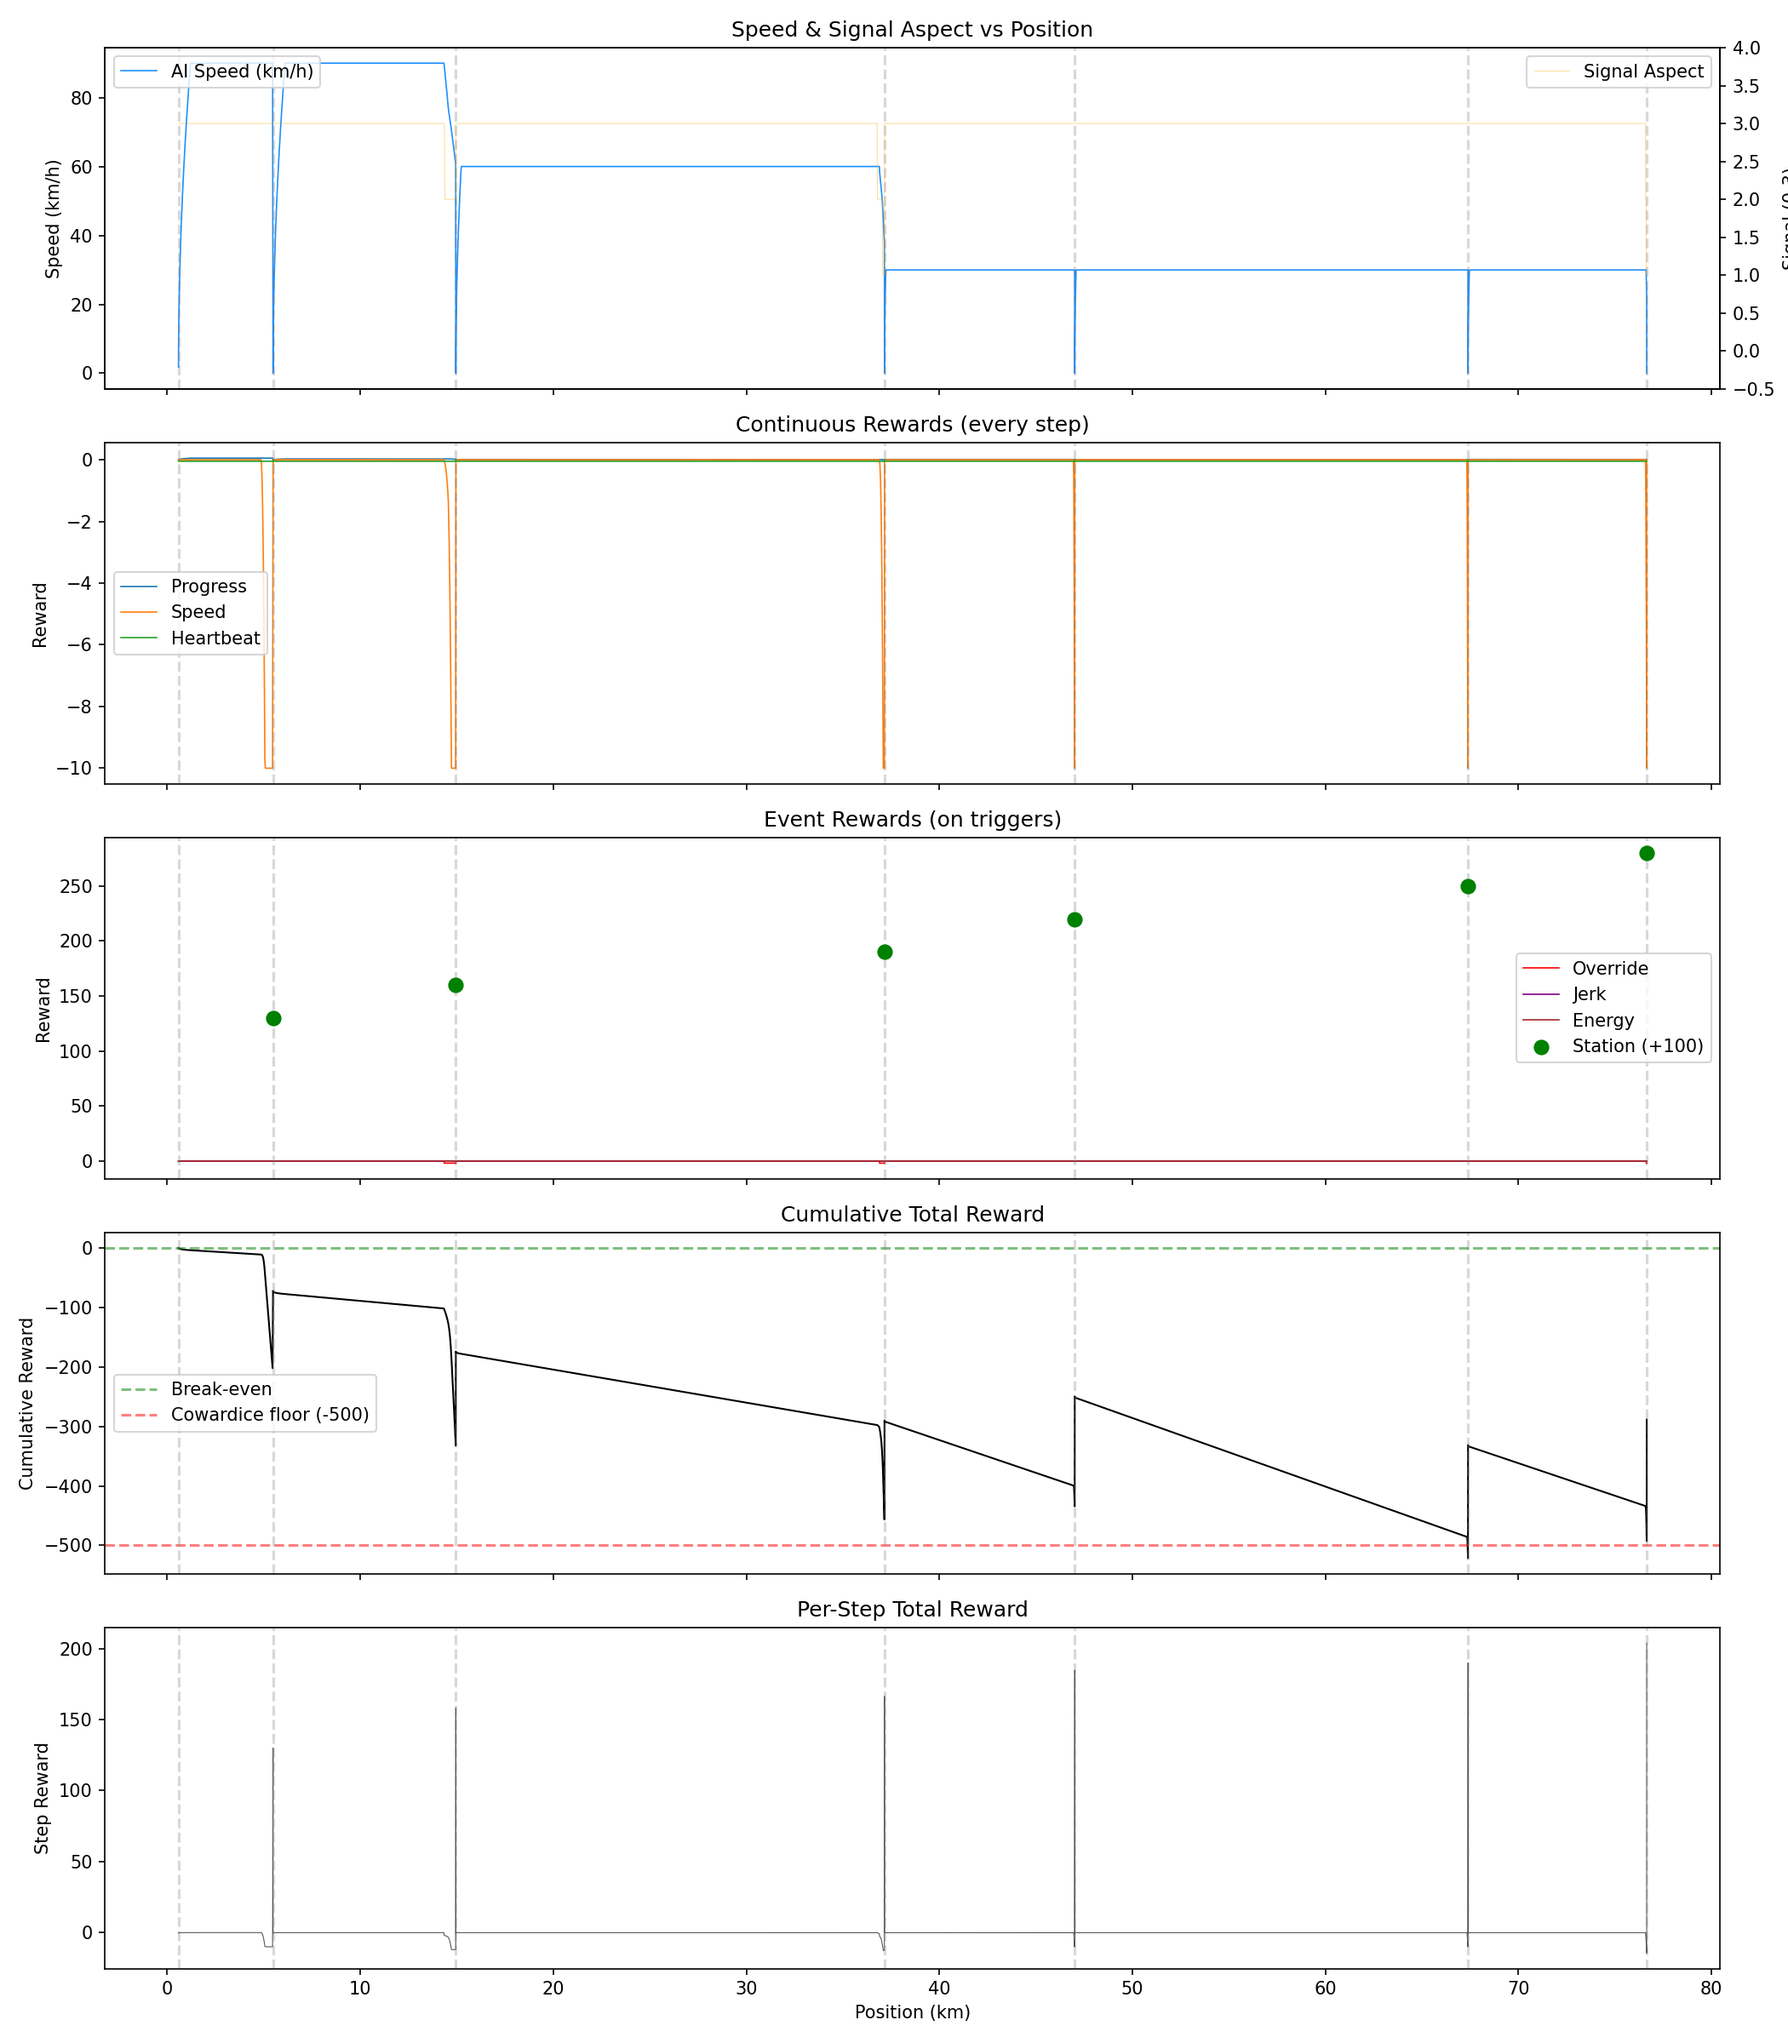
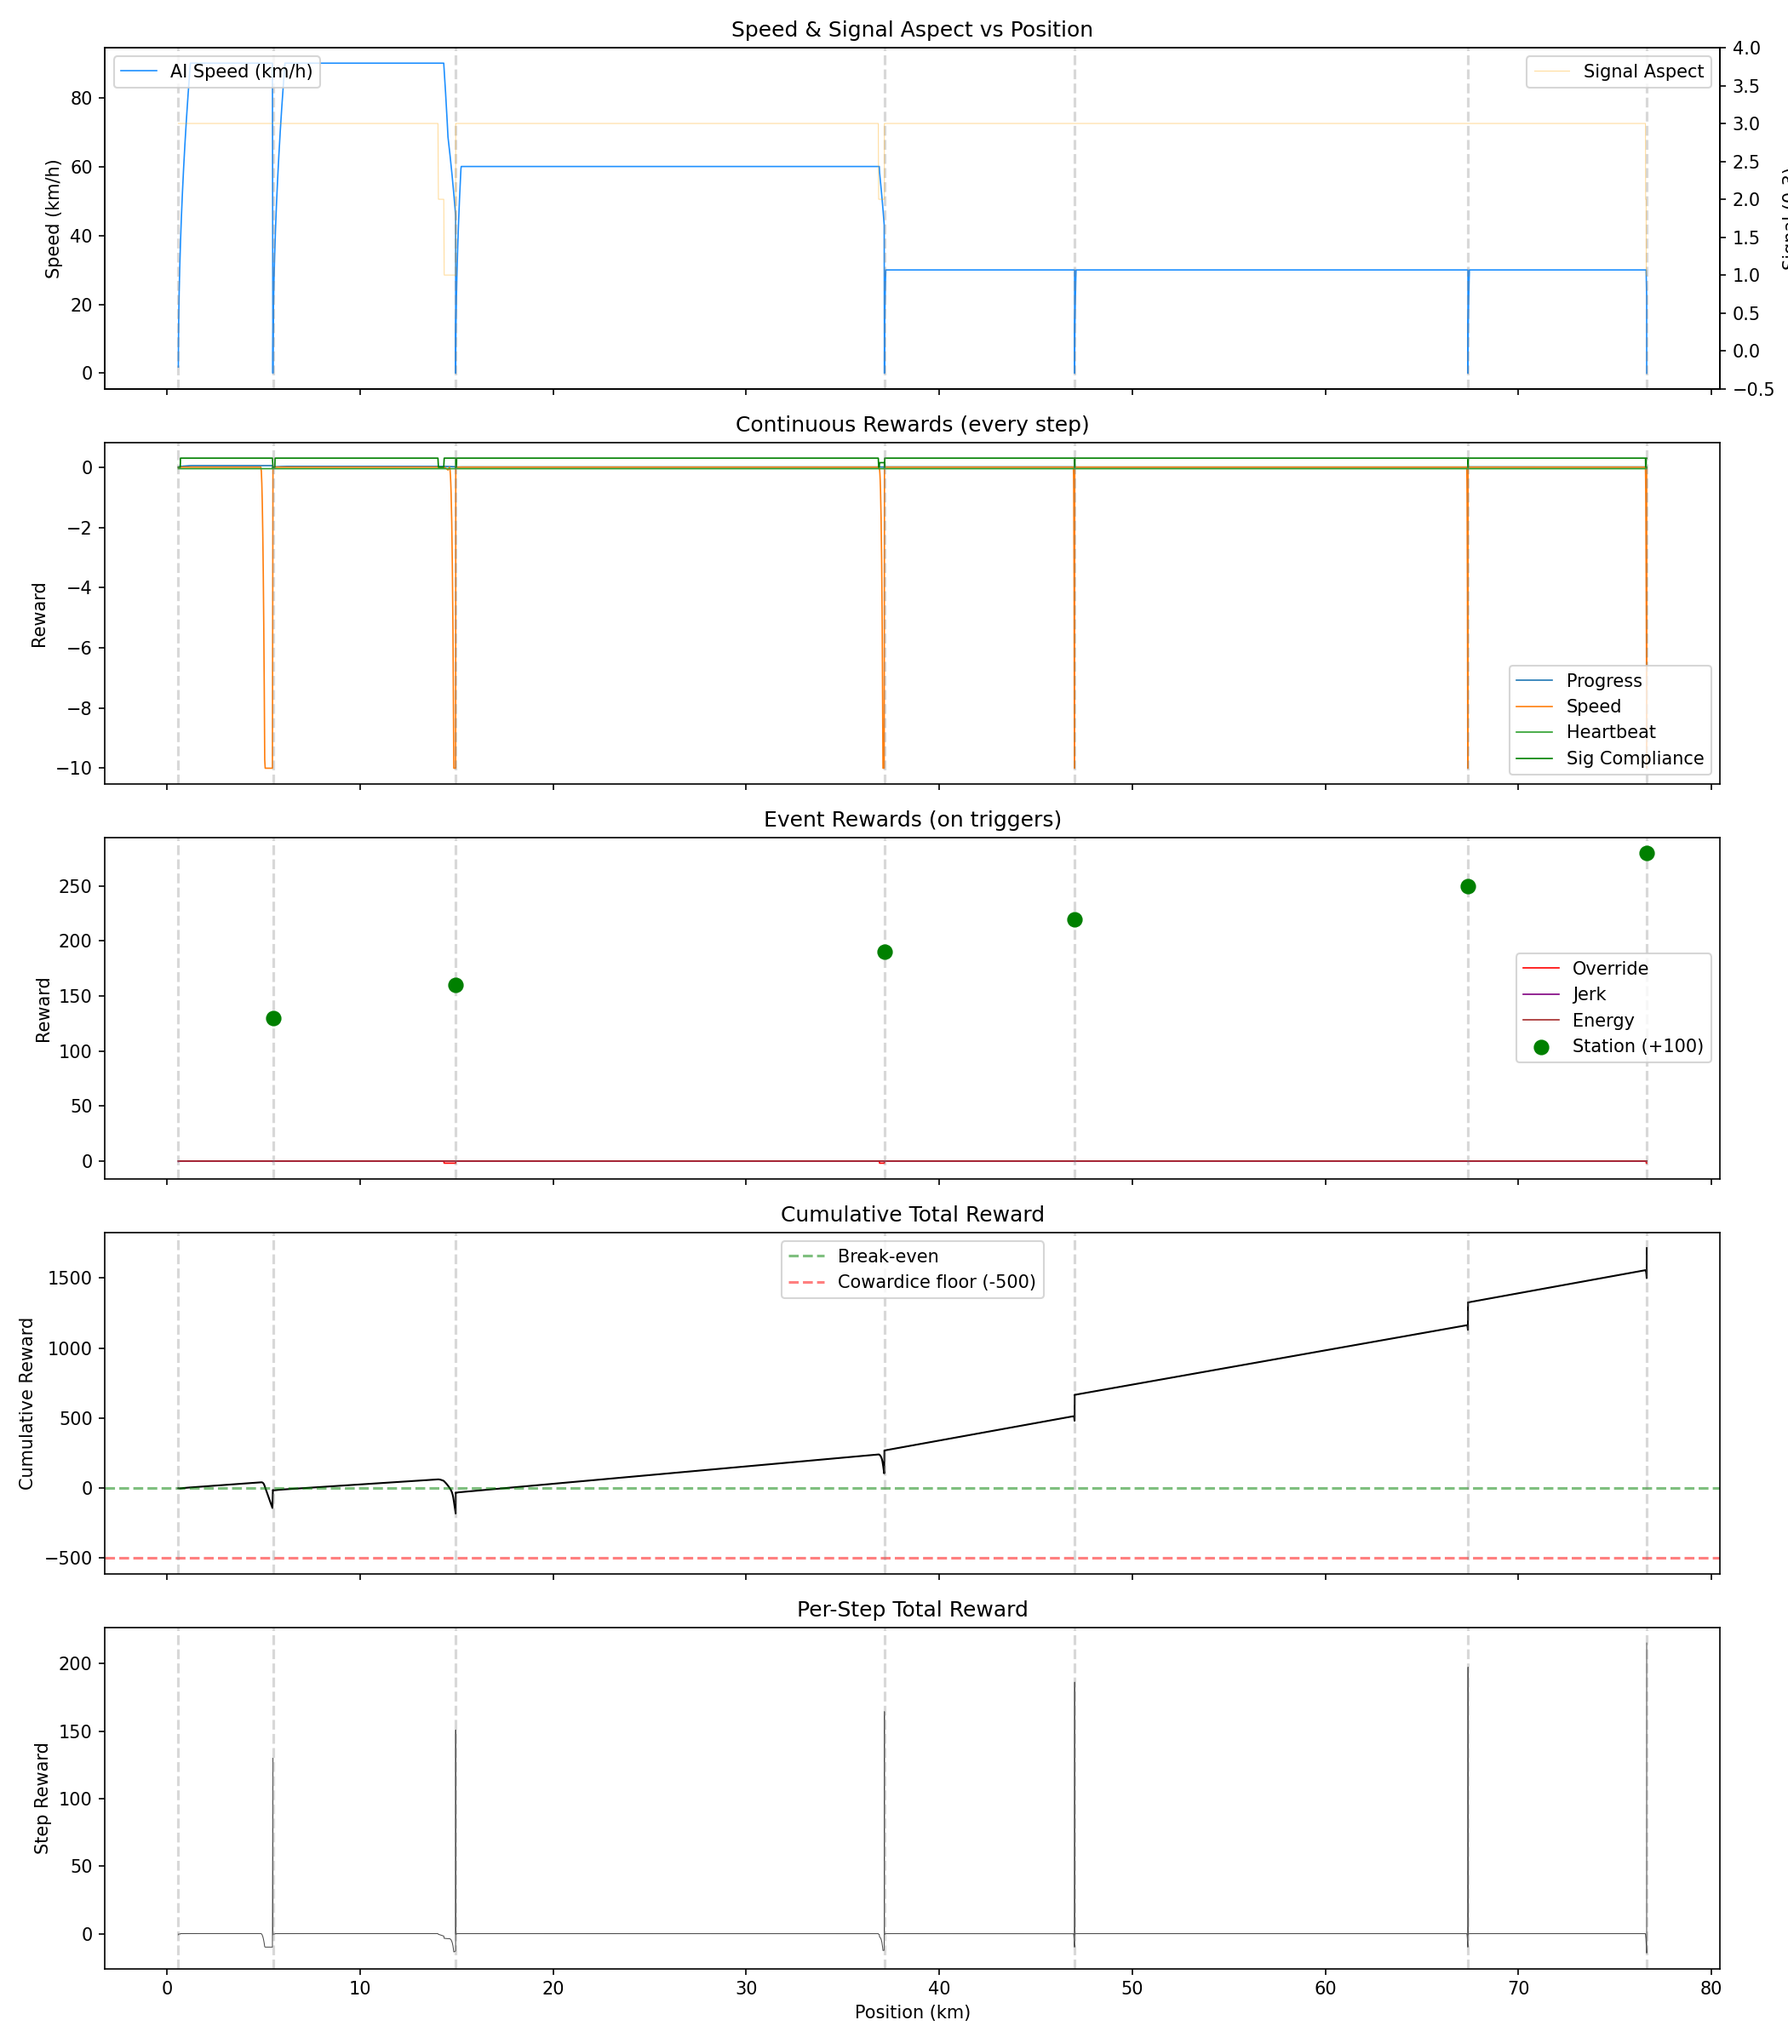
feat: implement signal compliance reward logic and update environment tracking and visualization

diff --git a/reward/reward_function.py b/reward/reward_function.py
@@ -70,6 +70,9 @@ class RewardConfig:
     heartbeat_penalty: float = -0.05          # per-step stall pressure
     override_penalty: float = -2.0            # VL intervention cost
     jerk_penalty: float = -2.0                # harsh action change cost
+
+    # Signal compliance — teaches AI to match speed to signal aspect
+    signal_compliance_bonus: float = 0.3      # reward for speed matching signal expectation
     energy_penalty_weight: float = -0.1       # mild traction efficiency signal
 
     headway_violation_penalty: float = -300.0 # terminal — exceeds best journey
@@ -118,6 +121,9 @@ class TrainState:
     is_dwelling: bool = False
     # Principle 2: station index for escalating rewards
     station_index: int = 0
+    # Signal awareness
+    signal_aspect: int = 3  # 0=Red, 1=Orange, 2=FlashGreen, 3=Green
+    applied_acceleration: float = 0.0  # the actual acceleration applied this step
 
 
 # Reward components
@@ -185,6 +191,12 @@ def _compute_speed_reward(state: TrainState, config: RewardConfig) -> float:
     overspeed: float = max(0.0, v - v_target)
     underspeed: float = max(0.0, v_target - v)
 
+    # Signal compliance: don't punish underspeed when signal is Red/Orange
+    # and AI is correctly slowing down or stopped. The AI is doing the RIGHT
+    # thing by being cautious — only penalise underspeed on Green/FlashGreen.
+    if state.signal_aspect <= 1 and v < 1.0:
+        underspeed = 0.0
+
     raw = -(config.k_over * overspeed**2) - (config.k_under * underspeed)
     # Principle 3: cap dense speed penalty so it can't drown sparse station rewards
     return max(config.speed_penalty_cap, raw)
@@ -197,6 +209,11 @@ def _compute_heartbeat_penalty(state: TrainState, config: RewardConfig) -> float
     # Gap 3 fix: don't penalise the AI for sitting still during a
     # forced station dwell — it has no control over this period.
     if state.is_dwelling:
+        return 0.0
+    # Signal compliance: don't punish for being stopped at Red/Orange.
+    # The AI is correctly obeying the signal — penalising it here
+    # teaches cowardice ("stopping is always bad").
+    if state.signal_aspect <= 1 and state.current_speed < 0.5:
         return 0.0
     return config.heartbeat_penalty
 
@@ -211,6 +228,38 @@ def _compute_jerk_penalty(state: TrainState, config: RewardConfig) -> float:
         return 0.0
     # Penalize the magnitude of the action shift squared (e.g., jump of 1 = -2, jump of 1.5 = -4.5)
     return config.jerk_penalty * (state.action_delta ** 2)
+
+def _compute_signal_compliance_reward(state: TrainState, config: RewardConfig) -> float:
+    """Reward AI for matching its behaviour to the current signal aspect.
+    
+    Teaches proactive driving: brake BEFORE signal turns Red,
+    accelerate when clear. Dense but small — guides without drowning.
+    
+    Green (3):      reward if at reasonable speed (> 50% of limit)
+    FlashGreen (2): reward if coasting or gentle braking
+    Orange (1):     reward if actively braking
+    Red (0):        reward if stopped or nearly stopped near occupied zone
+    """
+    v = state.current_speed
+    v_lim = state.speed_limit
+    a = state.applied_acceleration
+    bonus = config.signal_compliance_bonus
+
+    if state.signal_aspect == 3:  # Green — should be driving
+        if v > v_lim * 0.4:
+            return bonus
+    elif state.signal_aspect == 2:  # FlashGreen — should be cautious
+        if a <= 0.0:  # coasting or braking
+            return bonus * 0.5
+    elif state.signal_aspect == 1:  # Orange — should be braking
+        if a < 0.0:  # actively braking
+            return bonus
+    elif state.signal_aspect == 0:  # Red — should be stopped
+        if v < 1.0:  # stopped or nearly stopped
+            return bonus * 1.5  # extra reward for correct Red compliance
+    
+    return 0.0
+
 
 def _compute_station_reward(state: TrainState, config: RewardConfig) -> float:
     # Principle 2: rewards escalate toward destination.
@@ -262,6 +311,7 @@ class RewardOutput:
     r_headway: float
     r_speed: float
     r_heartbeat: float
+    r_signal_compliance: float
     # Event
     r_station: float
     r_time: float
@@ -293,6 +343,7 @@ def compute_reward(state: TrainState, config: RewardConfig = DEFAULT_CONFIG) -> 
     r_headway   = _compute_headway_penalty(state, config)
     r_speed     = _compute_speed_reward(state, config)
     r_heartbeat = _compute_heartbeat_penalty(state, config)
+    r_signal_compliance = _compute_signal_compliance_reward(state, config)
  
     # --- Event ---
     r_station   = _compute_station_reward(state, config)
@@ -306,7 +357,7 @@ def compute_reward(state: TrainState, config: RewardConfig = DEFAULT_CONFIG) -> 
     r_collision, terminate_collision = _compute_collision_penalty(state, config)
  
     # Aggregates
-    r_continuous = r_progress + r_headway + r_speed + r_heartbeat
+    r_continuous = r_progress + r_headway + r_speed + r_heartbeat + r_signal_compliance
     r_event      = r_station + r_time + r_override + r_jerk + r_energy
     r_terminal   = r_violation + r_collision
     r_total      = r_continuous + r_event + r_terminal
@@ -317,6 +368,7 @@ def compute_reward(state: TrainState, config: RewardConfig = DEFAULT_CONFIG) -> 
         r_headway=r_headway,
         r_speed=r_speed,
         r_heartbeat=r_heartbeat,
+        r_signal_compliance=r_signal_compliance,
         r_station=r_station,
         r_time=r_time,
         r_override=r_override,
@@ -356,6 +408,7 @@ if __name__ == "__main__":
     print(f"  Headway        : {result.r_headway:+.4f}")
     print(f"  Speed          : {result.r_speed:+.4f}")
     print(f"  Heartbeat      : {result.r_heartbeat:+.4f}")
+    print(f"  Sig Compliance : {result.r_signal_compliance:+.4f}")
     print(f"  Station        : {result.r_station:+.4f}")
     print(f"  Punctuality    : {result.r_time:+.4f}")
     print(f"  Override       : {result.r_override:+.4f}")

diff --git a/reward/plot_reward.py b/reward/plot_reward.py
@@ -19,7 +19,7 @@ def run_and_collect():
     data = {
         "position": [], "speed": [], "time": [],
         "progress": [], "headway": [], "speed_rew": [],
-        "heartbeat": [], "station": [], "override": [],
+        "heartbeat": [], "sig_compliance": [], "station": [], "override": [],
         "jerk": [], "energy": [], "total": [],
         "lead_x": [], "signal": [],
     }
@@ -36,6 +36,7 @@ def run_and_collect():
         data["headway"].append(rb["headway"])
         data["speed_rew"].append(rb["speed"])
         data["heartbeat"].append(rb["heartbeat"])
+        data["sig_compliance"].append(rb["signal_compliance"])
         data["station"].append(rb["station"])
         data["override"].append(rb["override"])
         data["jerk"].append(rb["jerk"])
@@ -74,6 +75,7 @@ def plot(data):
     ax.plot(x, data["progress"], label="Progress", linewidth=0.8)
     ax.plot(x, data["speed_rew"], label="Speed", linewidth=0.8)
     ax.plot(x, data["heartbeat"], label="Heartbeat", linewidth=0.8)
+    ax.plot(x, data["sig_compliance"], label="Sig Compliance", linewidth=0.8, color="green")
     ax.set_ylabel("Reward")
     ax.set_title("Continuous Rewards (every step)")
     ax.legend()

diff --git a/environment/railway_env.py b/environment/railway_env.py
@@ -324,6 +324,8 @@ class ModernizedLine104(gym.Env):
             distance_to_occupied=self._dist_to_nearest_occupied(),
             is_dwelling=(self.ai_dwell_timer > 0),
             station_index=self.last_station_idx,
+            signal_aspect=env_aspect,
+            applied_acceleration=safe_a,
         )
 
         reward_out = compute_reward(state)
@@ -345,6 +347,7 @@ class ModernizedLine104(gym.Env):
                 "headway": reward_out.r_headway,
                 "speed": reward_out.r_speed,
                 "heartbeat": reward_out.r_heartbeat,
+                "signal_compliance": reward_out.r_signal_compliance,
                 "station": reward_out.r_station,
                 "punctuality": reward_out.r_time,
                 "override": reward_out.r_override,
